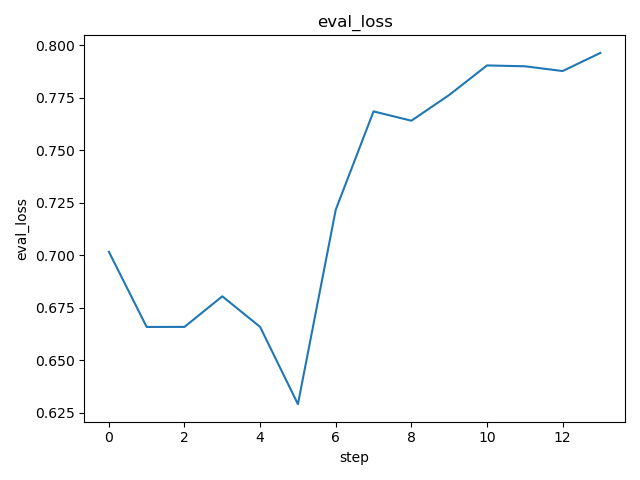
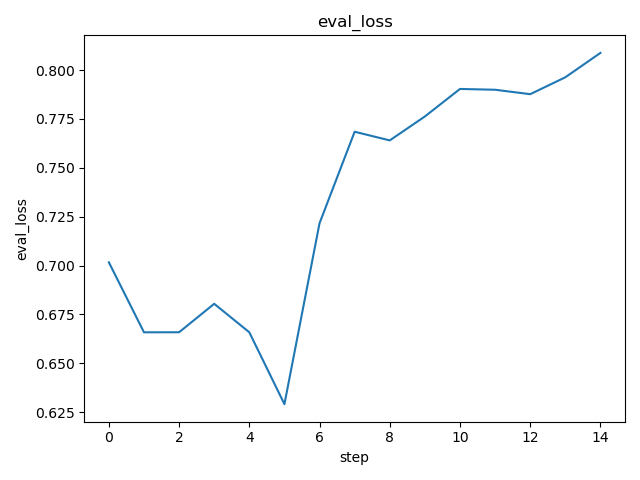
dvc: commit experiment ec7190a296f0206deb943706fefd765eb8cbc6b0e707cfc46b4b542785c7df6a

diff --git a/data/ogt_protein_classifier/dvclive/report.md b/data/ogt_protein_classifier/dvclive/report.md
@@ -4,7 +4,7 @@ metrics.json
 
 |   loss |   learning_rate |   epoch |   eval_loss |   eval_f1 |   eval_accuracy |   eval_matthew |   eval_runtime |   eval_samples_per_second |   eval_steps_per_second |   step |
 |--------|-----------------|---------|-------------|-----------|-----------------|----------------|----------------|---------------------------|-------------------------|--------|
-|  0.006 |         2.2e-05 |      28 |    0.796313 |  0.821053 |          0.7875 |       0.620264 |         3.2457 |                    24.648 |                   0.616 |     13 |
+| 0.0056 |           2e-05 |      30 |    0.808794 |  0.821053 |          0.7875 |       0.620264 |         3.2232 |                     24.82 |                    0.62 |     14 |
 
 ![static/eval_steps_per_second](static/eval_steps_per_second.png)
 
